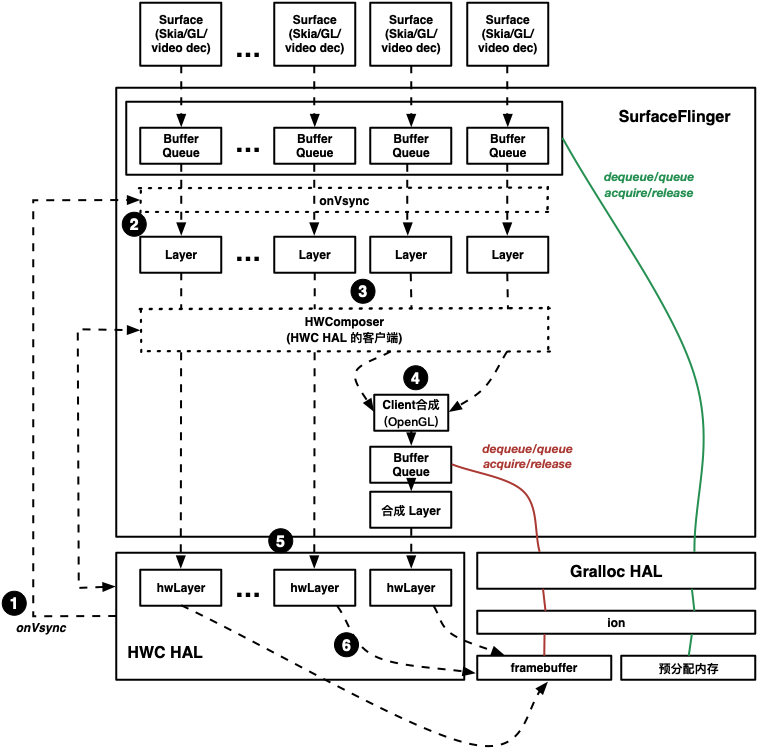
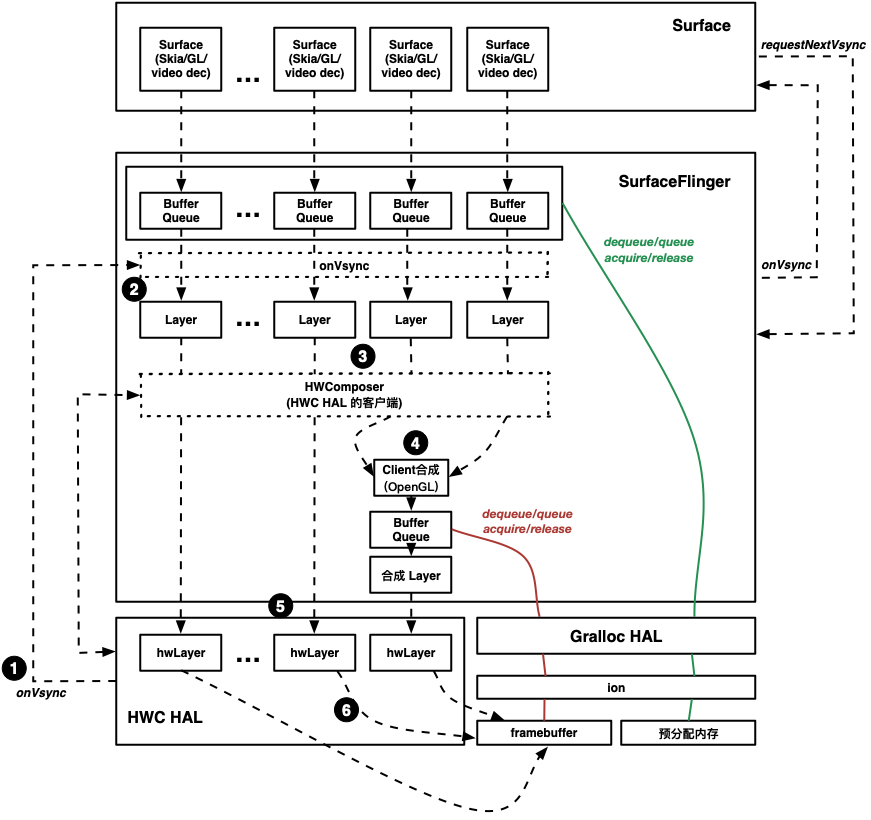
Android显示系统之——Surface和SurfaceFlinger

diff --git a/技术/android/Android显示系统之——Surface和SurfaceFlinger/Android显示系统之——Surface和SurfaceFlinger.md b/技术/android/Android显示系统之——Surface和SurfaceFlinger/Android显示系统之——Surface和SurfaceFlinger.md
@@ -106,7 +106,27 @@ SurfaceFlinger 启动后，有几个重要的初始化：
 
 4. 初始化并启动事件队列（类似于 Android 应用层的 Handler 机制），诸如 Vsync 通知合成、显示屏修改插拔等都将以事件的形式通知 SurfaceFlinger 进行处理。
 
-值得注意的是，事件队列中显示屏增加事件产生后，将生成并初始化该显示屏对应的普通合成窗口 Surface。
+值得注意的是，事件队列中显示屏增加事件产生后，将生成并初始化该显示屏对应的普通合成窗口 Surface，同时还要启动两个重要的服务线程 EventThread（ET） 和 DispVsyncThread（DT）。
+
+**ET线程**
+
+该线程主要处理客户端单元窗口下一帧绘制任务的调度请求，即 Surface 向 ET 询问，我有一个新的帧（这里的帧指的是单元窗口图像数据）绘制任务，是否可以执行了？ET 需要判断 Vsync 信号时机是否到达，一旦时机到了便通知 Surface 执行绘制任务。
+
+ET线程是常驻的服务，ET线程在没有绘制任务的时候自我阻塞（wait），避免浪费 CPU 资源，直到有新的绘制任务且时机合适便自我唤醒（notify）。
+
+那么，ET 如何判断 Vsync 信号时机到呢？这需要用到另一个协同服务线程 DT线程。
+
+**DT线程**
+
+该线程的主要功能是计算下一个 Vsync 信号的时机，并在 Vsync 信号时机到时唤醒 ET线程去遍历新的绘制任务并执行；同时还接收来自 HWC 的硬件 Vsync 信号更新，与自身计算的 Vsync 信号时机进行比对和调整。
+
+同样，DT线程也是常驻的服务，在 Vsync 信号到来之前以及 HWC 通知更新之前是自我阻塞的，直到 Vsync 周期到或者 HWC 通知到才被唤醒。
+
+需要注意的是，Surface 产生一个 `下一帧绘制任务的调度请求`（requestNextVsync）是通过 binder 来完成的；而 ET 通知 Surface 执行 `下一帧绘制任务`（onVsync） 却是通过 socket 完成的。为什么后者是 socket？因为在这一步，Surface 某种意义上是 ET 的服务方，但是 Surface 从一开始就是作为一个 binder 客户端存在的，它不能同时是 SurfaceFlinger 的 binder 客户端和 binder 服务端，binder 是单工的，所以这里用了 socket 作为替代方案，因为 socket 是双工 IPC，细节可以参考 BitTube 机制。下图描述了 Surface 向 SurfaceFlinger 订阅 Vsync 信号的过程：
+
+![Surface register to Vsync](images/vsync_to_surface.png "Surface register to Vsync")
+
+简言之，Surface 告知 ET，我要执行一个新的绘制任务了；ET 将此绘制任务缓存，并等待 DT 通知 Vsync 信号是否到；DT 计算出下一个 Vsync 信号时机，然后自我唤醒，同时唤醒 ET 执行缓存的绘制任务，准确来说是通知 Surface 执行绘制任务。
 
 <br>
 <br>
